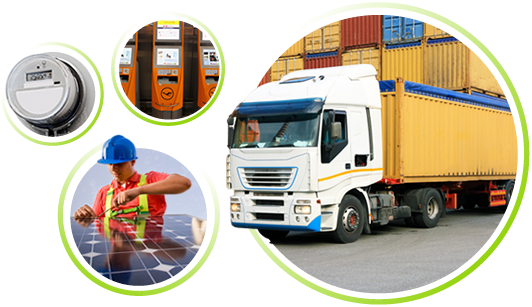
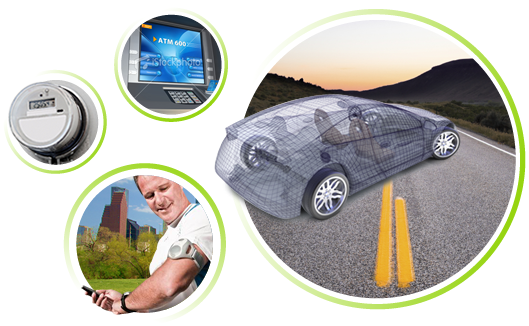
Changing images for search pages

diff --git a/sites/all/themes/m2m2/css/styles.css b/sites/all/themes/m2m2/css/styles.css
@@ -610,11 +610,10 @@ body.page-routers {}
   font-family: "Gotham Rounded", Arial, Sans-serif;*/
 }
 .banner-connectivity  {
-  background: url(../images/img_h_router.png) no-repeat top right;
+  background: url(../images/img_h_connectivity.png) no-repeat top right;
 }
 .banner-wireless  {
   background: url(../images/img_h_router.png) no-repeat top right;
-  height: ;
 }
 .banner-subtitle  {
   height: 40px;
